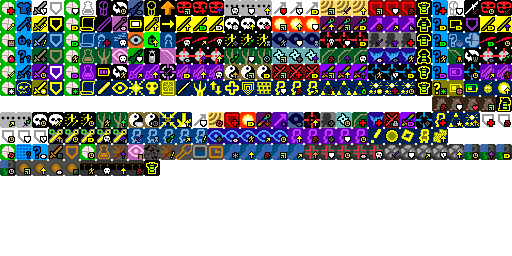
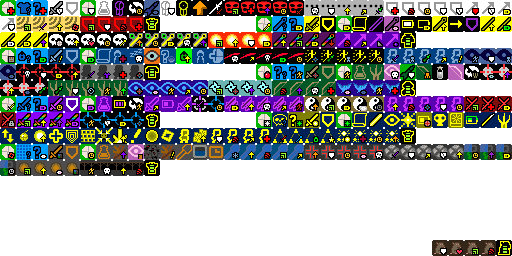
1.0.3:翻译 recommended-changes.md，整理天赋图标位置

diff --git a/core/src/main/java/com/shatteredpixel/shatteredpixeldungeon/actors/hero/Talent.java b/core/src/main/java/com/shatteredpixel/shatteredpixeldungeon/actors/hero/Talent.java
@@ -121,118 +121,118 @@ import java.util.LinkedHashMap;
 public enum Talent {
 
 	//Warrior T1
-	HEARTY_MEAL(0), VETERANS_INTUITION(1), PROVOKED_ANGER(2), IRON_WILL(3), TESTED_REVIVE(27),
+	HEARTY_MEAL(0), VETERANS_INTUITION(1), TESTED_REVIVE(2), PROVOKED_ANGER(3), IRON_WILL(4),
 	//Warrior T2
-	IRON_STOMACH(4), LIQUID_WILLPOWER(5), RUNIC_TRANSFERENCE(6), LETHAL_MOMENTUM(7), IMPROVISED_PROJECTILES(8),FIGHTING_BACK(28),
+	IRON_STOMACH(5), LIQUID_WILLPOWER(6), RUNIC_TRANSFERENCE(7), LETHAL_MOMENTUM(8), IMPROVISED_PROJECTILES(9),FIGHTING_BACK(10),
 	//Warrior T3
-	INTACT_SEAL(9, 3), STRONGMAN(10, 3), OVERWHELMING(29, 3),
+	INTACT_SEAL(11, 3), STRONGMAN(12, 3), OVERWHELMING(13, 3),
 	//Berserker T3
-	ENDLESS_RAGE(11, 3), DEATHLESS_FURY(12, 3), ENRAGED_CATALYST(13, 3), BEAR_GRUDGES(30, 3), BLADE_OF_ANGER(31, 3),
+	ENDLESS_RAGE(14, 3), DEATHLESS_FURY(15, 3), ENRAGED_CATALYST(16, 3), BEAR_GRUDGES(17, 3), BLADE_OF_ANGER(18, 3),
 	//Gladiator T3
-	CLEAVE(14, 3), LETHAL_DEFENSE(15, 3), ENHANCED_COMBO(16, 3), REPEATED_SKILL(224, 3), FAR_STANDOFF(225, 3),
+	CLEAVE(19, 3), LETHAL_DEFENSE(20, 3), ENHANCED_COMBO(21, 3), REPEATED_SKILL(22, 3), FAR_STANDOFF(23, 3),
 	//Guard T3
-	KEEP_GUARDING(254, 3), GUARD_THE_PASS(255, 3), SHIELDING(256, 3), EMERGENCY_SHIELD(257, 3), ARMOR_SEIZING(258, 3),
+	KEEP_GUARDING(24, 3), GUARD_THE_PASS(25, 3), SHIELDING(26, 3), EMERGENCY_SHIELD(27, 3), ARMOR_SEIZING(28, 3),
 	//Heroic Leap T4
-	BODY_SLAM(17, 4), IMPACT_WAVE(18, 4), DOUBLE_JUMP(19, 4),SHIELDING_JUMP(236, 4),
+	BODY_SLAM(29, 4), IMPACT_WAVE(30, 4), DOUBLE_JUMP(31, 4), SHIELDING_JUMP(32, 4),
 	//Shockwave T4
-	EXPANDING_WAVE(20, 4), STRIKING_WAVE(21, 4), SHOCK_FORCE(22, 4),EARTHQUAKE(237, 4),
+	EXPANDING_WAVE(33, 4), STRIKING_WAVE(34, 4), SHOCK_FORCE(35, 4), EARTHQUAKE(36, 4),
 	//Endure T4
-	SUSTAINED_RETRIBUTION(23, 4), SHRUG_IT_OFF(24, 4), EVEN_THE_ODDS(25, 4), BLOOD_FOR_BLOOD(238, 4),
+	SUSTAINED_RETRIBUTION(37, 4), SHRUG_IT_OFF(38, 4), EVEN_THE_ODDS(39, 4), BLOOD_FOR_BLOOD(40, 4),
 
 	//Mage T1
-	EMPOWERING_MEAL(32), SCHOLARS_INTUITION(33), LINGERING_MAGIC(34), BACKUP_BARRIER(35), TESTED_HYPOTHESIS(59),
+	EMPOWERING_MEAL(48), SCHOLARS_INTUITION(49), TESTED_HYPOTHESIS(50), LINGERING_MAGIC(51), BACKUP_BARRIER(52),
 	//Mage T2
-	ENERGIZING_MEAL(36), INSCRIBED_POWER(37), WAND_PRESERVATION(38), ARCANE_VISION(39), SHIELD_BATTERY(40), RESERVED_ENERGY(60),
+	ENERGIZING_MEAL(53), INSCRIBED_POWER(54), WAND_PRESERVATION(55), ARCANE_VISION(56), SHIELD_BATTERY(57), RESERVED_ENERGY(58),
 	//Mage T3
-	DESPERATE_POWER(41, 3), ALLY_WARP(42, 3), ARCANE_ARMOR(61, 3),
+	DESPERATE_POWER(59, 3), ALLY_WARP(60, 3), ARCANE_ARMOR(61, 3),
 	//Battlemage T3
-	EMPOWERED_STRIKE(43, 3), MYSTICAL_CHARGE(44, 3), EXCESS_CHARGE(45, 3), BATTLE_CHARGE(62, 3), VARIED_MAGIC(63, 3),
+	EMPOWERED_STRIKE(62, 3), MYSTICAL_CHARGE(63, 3), EXCESS_CHARGE(64, 3), BATTLE_CHARGE(65, 3), VARIED_MAGIC(66, 3),
 	//Warlock T3
-	SOUL_EATER(46, 3), SOUL_SIPHON(47, 3), NECROMANCERS_MINIONS(48, 3), CLEAR_YOUR_SOUL(226, 3),MANA_EATING(227, 3),
+	SOUL_EATER(67, 3), SOUL_SIPHON(68, 3), NECROMANCERS_MINIONS(69, 3), CLEAR_YOUR_SOUL(70, 3), MANA_EATING(71, 3),
     //Switcher T3
-    SHARED_ARCANA(259, 3), SWITCH_MASTER(260, 3), RELAY_RECHARGING(261, 3), ENERGY_RECYCLING(262, 3),MYSTICAL_SWITCH(263, 3),
+    SHARED_ARCANA(72, 3), SWITCH_MASTER(73, 3), RELAY_RECHARGING(74, 3), ENERGY_RECYCLING(75, 3), MYSTICAL_SWITCH(76, 3),
 	//Elemental Blast T4
-	BLAST_RADIUS(49, 4), ELEMENTAL_POWER(50, 4), REACTIVE_BARRIER(51, 4), RECHARGING_BLAST(239, 4),
+	BLAST_RADIUS(77, 4), ELEMENTAL_POWER(78, 4), REACTIVE_BARRIER(79, 4), RECHARGING_BLAST(80, 4),
 	//Wild Magic T4
-	WILD_POWER(52, 4), FIRE_EVERYTHING(53, 4), CONSERVED_MAGIC(54, 4), WILD_PUNISHMENT(240, 4),
+	WILD_POWER(81, 4), FIRE_EVERYTHING(82, 4), CONSERVED_MAGIC(83, 4), WILD_PUNISHMENT(84, 4),
 	//Warp Beacon T4
-	TELEFRAG(55, 4), REMOTE_BEACON(56, 4), LONGRANGE_WARP(57, 4), SPACE_COLLECTING(241, 4),
+	TELEFRAG(85, 4), REMOTE_BEACON(86, 4), LONGRANGE_WARP(87, 4), SPACE_COLLECTING(88, 4),
 
 	//Rogue T1
-	CACHED_RATIONS(64), THIEFS_INTUITION(65), SUCKER_PUNCH(66), PROTECTIVE_SHADOWS(67), TESTED_MYST(91),
+	CACHED_RATIONS(96), THIEFS_INTUITION(97), TESTED_MYST(98), SUCKER_PUNCH(99), PROTECTIVE_SHADOWS(100),
 	//Rogue T2
-	MYSTICAL_MEAL(68), INSCRIBED_STEALTH(69), EMERGENCY_CHARGE(70), SILENT_STEPS(71), ROGUES_FORESIGHT(72), ROGUES_INSTINCT(92),
+	MYSTICAL_MEAL(101), INSCRIBED_STEALTH(102), EMERGENCY_CHARGE(103), SILENT_STEPS(104), ROGUES_FORESIGHT(105), ROGUES_INSTINCT(106),
 	//Rogue T3
-	ENHANCED_RINGS(73, 3), LIGHT_CLOAK(74, 3), STEALTH_METABOLISM(93, 3),
+	ENHANCED_RINGS(107, 3), LIGHT_CLOAK(108, 3), STEALTH_METABOLISM(109, 3),
 	//Assassin T3
-	ENHANCED_LETHALITY(75, 3), ASSASSINS_REACH(76, 3), TERRORIST_ATTACK(77, 3), CHARGE_RECYCLING(94, 3), EXTREMIST(95, 3),
+	ENHANCED_LETHALITY(110, 3), ASSASSINS_REACH(111, 3), TERRORIST_ATTACK(112, 3), CHARGE_RECYCLING(113, 3), EXTREMIST(114, 3),
 	//Freerunner T3
-	EVASIVE_ARMOR(78, 3), PROJECTILE_MOMENTUM(79, 3), SPEEDY_STEALTH(80, 3), ARCANE_STEP(228, 3), STRETCHING(229, 3),
+	EVASIVE_ARMOR(115, 3), PROJECTILE_MOMENTUM(116, 3), SPEEDY_STEALTH(117, 3), ARCANE_STEP(118, 3), STRETCHING(119, 3),
 	//Ninja T3
-	BLADE_OF_UNREAL(264, 3), HIDDEN_IN_THE_CITY(265, 3), FLYING_LOCUST_STONE(266, 3), STEALTH_LEAP(267, 3), WEAKENING_SNEAK(268, 3),
+	BLADE_OF_UNREAL(120, 3), HIDDEN_IN_THE_CITY(121, 3), FLYING_LOCUST_STONE(122, 3), STEALTH_LEAP(123, 3), WEAKENING_SNEAK(124, 3),
 	//Smoke Bomb T4
-	HASTY_RETREAT(81, 4), BODY_REPLACEMENT(82, 4), SHADOW_STEP(83, 4), STATIC_SMOKE(242, 4),
+	HASTY_RETREAT(125, 4), BODY_REPLACEMENT(126, 4), SHADOW_STEP(127, 4), STATIC_SMOKE(128, 4),
 	//Death Mark T4
-	FEAR_THE_REAPER(84, 4), DEATHLY_DURABILITY(85, 4), DOUBLE_MARK(86, 4),STRONG_MARK(243, 4),
+	FEAR_THE_REAPER(129, 4), DEATHLY_DURABILITY(130, 4), DOUBLE_MARK(131, 4), STRONG_MARK(132, 4),
 	//Shadow Clone T4
-	SHADOW_BLADE(87, 4), CLONED_ARMOR(88, 4), PERFECT_COPY(89, 4),PRECISE_SHADOW(244, 4),
+	SHADOW_BLADE(133, 4), CLONED_ARMOR(134, 4), PERFECT_COPY(135, 4), PRECISE_SHADOW(136, 4),
 
 	//Huntress T1
-	NATURES_BOUNTY(96), SURVIVALISTS_INTUITION(97), FOLLOWUP_STRIKE(98), NATURES_AID(99), TESTED_SWIFTNESS(123),
+	NATURES_BOUNTY(144), SURVIVALISTS_INTUITION(145), TESTED_SWIFTNESS(146), FOLLOWUP_STRIKE(147), NATURES_AID(148),
 	//Huntress T2
-	INVIGORATING_MEAL(100), LIQUID_NATURE(101), REJUVENATING_STEPS(102), HEIGHTENED_SENSES(103), DURABLE_PROJECTILES(104), IVY_BIND(124),
+	INVIGORATING_MEAL(149), LIQUID_NATURE(150), REJUVENATING_STEPS(151), HEIGHTENED_SENSES(152), DURABLE_PROJECTILES(153), IVY_BIND(154),
 	//Huntress T3
-	L_M_MASTER(105, 3), SEER_SHOT(106, 3), ORGANIC_FERTILIZER(125, 3),
+	L_M_MASTER(155, 3), SEER_SHOT(156, 3), ORGANIC_FERTILIZER(157, 3),
 	//Sniper T3
-	FARSIGHT(107, 3), SHARED_ENCHANTMENT(108, 3), SHARED_UPGRADES(109, 3), SUPRESSING_MARK(126, 3), RESONANCE_FETCH(127, 3),
+	FARSIGHT(158, 3), SHARED_ENCHANTMENT(159, 3), SHARED_UPGRADES(160, 3), SUPRESSING_MARK(161, 3), RESONANCE_FETCH(162, 3),
 	//Warden T3
-	DURABLE_TIPS(110, 3), BARKSKIN(111, 3), DEW_COLLECTING(112, 3), JUNGLE_GUERRILLA(230, 3), GRASSMAN(231, 3),
+	DURABLE_TIPS(163, 3), BARKSKIN(164, 3), DEW_COLLECTING(165, 3), JUNGLE_GUERRILLA(166, 3), GRASSMAN(167, 3),
 	//Scout T3
-	STRONG_MARK_SC(269, 3), TRACKING_ARROW(270, 3), SWIFT_COURIER(271, 3), EXPEL_ENEMIES(272, 3), PIONEERING_SPIRIT(273, 3),
+	STRONG_MARK_SC(168, 3), TRACKING_ARROW(169, 3), SWIFT_COURIER(170, 3), EXPEL_ENEMIES(171, 3), PIONEERING_SPIRIT(172, 3),
 	//Spectral Blades T4
-	FAN_OF_BLADES(113, 4), PROJECTING_BLADES(114, 4), SPIRIT_BLADES(115, 4),INSTANT_BLADES(245, 4),
+	FAN_OF_BLADES(173, 4), PROJECTING_BLADES(174, 4), SPIRIT_BLADES(175, 4), INSTANT_BLADES(176, 4),
 	//Natures Power T4
-	GROWING_POWER(116, 4), NATURES_WRATH(117, 4), WILD_MOMENTUM(118, 4),REGROWTH(246, 4),
+	GROWING_POWER(177, 4), NATURES_WRATH(178, 4), WILD_MOMENTUM(179, 4), REGROWTH(180, 4),
 	//Spirit Hawk T4
-	EAGLE_EYE(119, 4), GO_FOR_THE_EYES(120, 4), SWIFT_SPIRIT(121, 4),STRONG_HAWK(247, 4),
+	EAGLE_EYE(181, 4), GO_FOR_THE_EYES(182, 4), SWIFT_SPIRIT(183, 4), STRONG_HAWK(184, 4),
 
 	//Duelist T1
-	STRENGTHENING_MEAL(128), ADVENTURERS_INTUITION(129), PATIENT_STRIKE(130), AGGRESSIVE_BARRIER(131), TESTED_CHARGE(155),
+	STRENGTHENING_MEAL(192), ADVENTURERS_INTUITION(193), TESTED_CHARGE(194), PATIENT_STRIKE(195), AGGRESSIVE_BARRIER(196),
 	//Duelist T2
-	FOCUSED_MEAL(132), LIQUID_AGILITY(133), WEAPON_RECHARGING(134), LETHAL_HASTE(135), SWIFT_EQUIP(136), POWER_ACCUMULATION(156),
+	FOCUSED_MEAL(197), LIQUID_AGILITY(198), WEAPON_RECHARGING(199), LETHAL_HASTE(200), SWIFT_EQUIP(201), POWER_ACCUMULATION(202),
 	//Duelist T3
-	PRECISE_ASSAULT(137, 3), DEADLY_FOLLOWUP(138, 3), AGILE_COUNTATK(157, 3),
+	PRECISE_ASSAULT(203, 3), DEADLY_FOLLOWUP(204, 3), AGILE_COUNTATK(205, 3),
 	//Champion T3
-	VARIED_CHARGE(139, 3), TWIN_UPGRADES(140, 3), COMBINED_LETHALITY(141, 3), SKILLED_DUAL(158, 3),MARCH_FORWARD(159 ,3),
+	VARIED_CHARGE(206, 3), TWIN_UPGRADES(207, 3), COMBINED_LETHALITY(208, 3), SKILLED_DUAL(209, 3), MARCH_FORWARD(210, 3),
 	//Monk T3
-	UNENCUMBERED_SPIRIT(142, 3), MONASTIC_VIGOR(143, 3), COMBINED_ENERGY(144, 3), YANG_SEEING(232, 3), YIN_GAIT(233, 3),
+	UNENCUMBERED_SPIRIT(211, 3), MONASTIC_VIGOR(212, 3), COMBINED_ENERGY(213, 3), YANG_SEEING(214, 3), YIN_GAIT(215, 3),
 	//Phantom T4
-	FLEXIBLE_FOOTWORK(274, 3), ENRAGED_SHADOW(275, 3), MULTIPLE_DODGE(276, 3), EIDOLON(277, 3), DIFFUSED_IMAGE(278, 3),
+	FLEXIBLE_FOOTWORK(216, 3), ENRAGED_SHADOW(217, 3), MULTIPLE_DODGE(218, 3), EIDOLON(219, 3), DIFFUSED_IMAGE(220, 3),
 	//Challenge T4
-	CLOSE_THE_GAP(145, 4), INVIGORATING_VICTORY(146, 4), ELIMINATION_MATCH(147, 4),BURN_BRIDGES(248 ,4),
+	CLOSE_THE_GAP(221, 4), INVIGORATING_VICTORY(222, 4), ELIMINATION_MATCH(223, 4), BURN_BRIDGES(224, 4),
 	//Elemental Strike T4
-	ELEMENTAL_REACH(148, 4), STRIKING_FORCE(149, 4), DIRECTED_POWER(150, 4), RECHARGING_STRIKE(249, 4),
+	ELEMENTAL_REACH(225, 4), STRIKING_FORCE(226, 4), DIRECTED_POWER(227, 4), RECHARGING_STRIKE(228, 4),
 	//Feint T4
-	FEIGNED_RETREAT(151, 4), EXPOSE_WEAKNESS(152, 4), COUNTER_ABILITY(153, 4), EVASIVE_AFTERIMAGE(250, 4),
+	FEIGNED_RETREAT(229, 4), EXPOSE_WEAKNESS(230, 4), COUNTER_ABILITY(231, 4), EVASIVE_AFTERIMAGE(232, 4),
 
 	//Cleric T1
-	SATIATED_SPELLS(160), HOLY_INTUITION(161), SEARING_LIGHT(162), SHIELD_OF_LIGHT(163), TESTED_HOLINESS(187),
+	SATIATED_SPELLS(240), HOLY_INTUITION(241), TESTED_HOLINESS(242), SEARING_LIGHT(243), SHIELD_OF_LIGHT(244),
 	//Cleric T2
-	ENLIGHTENING_MEAL(164), RECALL_INSCRIPTION(165), SUNRAY(166), DIVINE_SENSE(167), BLESS(168), ASCETICISM(188),
+	ENLIGHTENING_MEAL(245), RECALL_INSCRIPTION(246), SUNRAY(247), DIVINE_SENSE(248), BLESS(249), ASCETICISM(250),
 	//Cleric T3
-	CLEANSE(169, 3), LIGHT_READING(170, 3), SHARED_CHARGE(189, 3),
+	CLEANSE(251, 3), LIGHT_READING(252, 3), SHARED_CHARGE(253, 3),
 	//Priest T3
-	HOLY_LANCE(171, 3), HALLOWED_GROUND(172, 3), MNEMONIC_PRAYER(173, 3), EXPLOSION(190, 3), ENHANCED_RADIANCE(191, 3),
+	HOLY_LANCE(254, 3), HALLOWED_GROUND(255, 3), MNEMONIC_PRAYER(256, 3), EXPLOSION(257, 3), ENHANCED_RADIANCE(258, 3),
 	//Paladin T3
-	LAY_ON_HANDS(174, 3), AURA_OF_PROTECTION(175, 3), WALL_OF_LIGHT(176, 3), JUSTICE_STRIKE(234, 3), ENHANCED_SMITE(235, 3),
+	LAY_ON_HANDS(259, 3), AURA_OF_PROTECTION(260, 3), WALL_OF_LIGHT(261, 3), JUSTICE_STRIKE(262, 3), ENHANCED_SMITE(263, 3),
 	//Preacher T3
-	PUNISHMENT(279, 3), DRAPE_OF_REDEMPTION(280, 3), HOLY_TRAP(281, 3), HOLY_GHOST(282, 3), ENHANCED_BOOKPAGE(283, 3),
+	PUNISHMENT(264, 3), DRAPE_OF_REDEMPTION(265, 3), HOLY_TRAP(266, 3), HOLY_GHOST(267, 3), ENHANCED_BOOKPAGE(268, 3),
 	//Ascended Form T4
-	DIVINE_INTERVENTION(177, 4), JUDGEMENT(178, 4), FLASH(179, 4), HOLY_REGENERATION(251, 4),
+	DIVINE_INTERVENTION(269, 4), JUDGEMENT(270, 4), FLASH(271, 4), HOLY_REGENERATION(272, 4),
 	//Trinity T4
-	BODY_FORM(180, 4), MIND_FORM(181, 4), SPIRIT_FORM(182, 4), MIMIC_FORM(252, 4),
+	BODY_FORM(273, 4), MIND_FORM(274, 4), SPIRIT_FORM(275, 4), MIMIC_FORM(276, 4),
 	//Power of Many T4
-	BEAMING_RAY(183, 4), LIFE_LINK(184, 4), STASIS(185, 4), HOLY_CHAMPION(253, 4),
+	BEAMING_RAY(277, 4), LIFE_LINK(278, 4), STASIS(279, 4), HOLY_CHAMPION(280, 4),
 
 	//Explorer T1
 	KEEN_MEAL(288), SECRET_FORESIGHT(289), TESTED_AWARENESS(290), HOME_ADVANTAGE(291), SAFE_SURVEY(292),
@@ -245,18 +245,18 @@ public enum Talent {
 	//Trapper T3
 	TRAP_MASTER(307, 3), FRIENDLY_MECHANISM(308, 3), SIMPLE_STRUCTURE(309, 3), SENSITIVE_PEDAL(310, 3), LIQUID_COLLECTING(311, 3),
 	//Rocksy T3
-	METEROIC_IRON(312, 3), ROCK_PROTECTOR(313, 3), MIND_CONTROL(314, 3), DESTRUCTIVE_STRIKE(315, 3) ,METEOR_CRATER(316, 3),
+	METEROIC_IRON(312, 3), ROCK_PROTECTOR(313, 3), MIND_CONTROL(314, 3), DESTRUCTIVE_STRIKE(315, 3), METEOR_CRATER(316, 3),
 	//Optical Camouflage T4
 	LASTING_DISGUISE(317, 4), STRAIN_CAPACITY(318, 4), STANDBY(319, 4), QUICK_BUILD(320, 4),
 	//Sandstorm T4
 	GLOOM_ABOVE(321, 4), SAND_FLOW(322, 4), HEART_OF_STORM(323, 4), DRIFT_SAND(324, 4),
 	//Underpass T4
-	EXPRESS_UNDERWAY(325, 4) ,MONITOR_BENEATH(326, 4), SLY_RABBIT(327, 4), GRENADE_COVER(328 ,4) ,
+	EXPRESS_UNDERWAY(325, 4), MONITOR_BENEATH(326, 4), SLY_RABBIT(327, 4), GRENADE_COVER(328, 4),
 
 	//universal T4
-	HEROIC_ENERGY(26, 4), //See icon() and title() for special logic for this one
+	HEROIC_ENERGY(41, 4), //See icon() and title() for special logic for this one
 	//Ratmogrify T4
-	RATSISTANCE(220, 4), RATLOMACY(221, 4), RATFORCEMENTS(222, 4), ENRATGEMENT(219, 4);
+	RATSISTANCE(507, 4), RATLOMACY(508, 4), RATFORCEMENTS(509, 4), ENRATGEMENT(510, 4);
 
 	public static class ImprovisedProjectileCooldown extends FlavourBuff{
 		public int icon() { return BuffIndicator.TIME; }
@@ -736,29 +736,11 @@ public enum Talent {
 
 	public int icon(){
 		if (this == HEROIC_ENERGY){
-			if (Ratmogrify.useRatroicEnergy){
-				return 223;
-			}
 			HeroClass cls = Dungeon.hero != null ? Dungeon.hero.heroClass : GamesInProgress.selectedClass;
-			switch (cls){
-				case WARRIOR: default:
-					return 26;
-				case MAGE:
-					return 58;
-				case ROGUE:
-					return 90;
-				case HUNTRESS:
-					return 122;
-				case DUELIST:
-					return 154;
-				case CLERIC:
-					return 186;
-				case EXPLORER:
-					return 329;
-			}
-		} else {
-			return icon;
-		}
+            if (Ratmogrify.useRatroicEnergy || cls == null) return 511;
+            return cls.ordinal() * 48 + 41;
+            //currently every hero has 48 talent slot, with 41 of them used
+		} else return icon;
 	}
 
 	public int maxPoints(){

diff --git a/docs/recommended-changes-zh-cn.md b/docs/recommended-changes-zh-cn.md
@@ -1,0 +1,73 @@
+ （最后更新于 2026 年二月）
+
+这份指南包含了一些开发者们在创造他们自己的《像素地牢》改版时可能会想基于破碎的源码进行的技术性更改。
+
+## 应用名、版本名与包名
+
+你应该改动有些在 [build.gradle](/build.gradle) 里定义的变量：
+- `appName` 定义了用户见到的应用名。你必须将它改为你希望的游戏名。
+- `appPackageName` 定义了你应用的内部名称。安卓和 iOS 用此名称区分你的应用与其它的，电脑用它和 appName 确定游戏存档位置。你必须将它从初始值更改掉。你应当使用格式 `com.<开发者名称>.<游戏名>`。
+- `appVersionCode` 定义了你应用的内部版本号。每当发布更新时，你都应当增加其值。阅读下一章以获得有关此变量的更多细节。
+- `appVersionName` 定义了用户见到的版本号。任意更改它，并在每次发布更新时增加其值。
+
+其它变量在设置你自己的《像素地牢》版本时无需更改，它们大多是无需更改的技术性配置。
+
+注意：有些指南会推荐你更改应用的包结构（比如文件夹名称）。这曾是必要的，但如今只是可选的，因为可以使用 `appPackageName` 代替之。
+
+## 应用版本号
+
+《破碎的像素地牢》有一个内部版本号，每次发布时都应当递增。它在根目录 [build.gradle](/build.gradle) 文件里以 `appVersionCode` 定义。
+
+你可能会想将此值设置回 1，但《破碎的像素地牢》有针对老版本的兼容性代码，如果你试图降低版本号，它们可能意外触发。版本号完全仅在内部使用，所以将破碎当前的版本号作为版本号的起始点无伤大雅。
+
+如果你仍然想将此值设为 1，位于 [ShatteredPixelDungeon.java](/core/src/main/java/com/shatteredpixel/shatteredpixeldungeon/ShatteredPixelDungeon.java) 顶部的许多常量是找出游戏出于兼容性目的而参照版本代码的地方的良好起始点。
+
+## 应用图标与标题
+
+你可能会想改变应用图标与标题界面以更好地将你的版本与《破碎的像素地牢》在视觉上区分开。这只是改一改几张图像的活，但是需要改的有很多。
+
+对于标题界面，你可以在[这里](/core/src/main/assets/interfaces/banners.png)找到游戏的标题图片与独立发光层。
+
+对于图标，你可以在此找到各个平台的图标：[安卓（调试）](/android/src/debug/res)、[安卓（发行）](/android/src/main/res)、[电脑](/desktop/src/main/assets/icons)和[iOS](/ios/assets/Assets.xcassets).
+
+## 鸣谢名单与支持按钮
+
+你可能会想将你自己加入鸣谢名单或是改变当前的支持者链接。随意更改它们，相关代码位于 [AboutScene.java](/core/src/main/java/com/shatteredpixel/shatteredpixeldungeon/scenes/AboutScene.java) 和 [SupporterScene.java](/core/src/main/java/com/shatteredpixel/shatteredpixeldungeon/scenes/SupporterScene.java)。如果你希望禁用支持者链接，在 [TitleScene.java](/core/src/main/java/com/shatteredpixel/shatteredpixeldungeon/scenes/TitleScene.java) 中注释掉 `add(btnSupport);`即可。
+
+游戏还带有一个在玩家第一次打败黏咕时出现的一次性唠叨窗口。如果你希望编辑此窗口，代码位于 [WndSupportPrompt.java](/core/src/main/java/com/shatteredpixel/shatteredpixeldungeon/windows/WndSupportPrompt.java)。如果你希望完全禁用它，触发逻辑位于 [SkeletonKey.java](/core/src/main/java/com/shatteredpixel/shatteredpixeldungeon/items/keys/SkeletonKey.java)。
+
+注意根据 GPLv3 许可证，任何你对鸣谢界面所作的更改必须避免移除任何已有鸣谢，尽管你仍然可以任意位移它们。此外，虽然并非强制要求，我希望你提我一下并留一个指向我的 Patreon 的链接，你也仍然可以自由添加你的。
+
+**注意如果你希望在 Google Play 上分发，Google 有下架提及 Patreon 的应用程序的历史，因为他们希望通过 Google Play 应用程序获得的所有收入都经过他们。所以如果你想在 Google Play 上发布的话，强烈推荐你禁用支持按钮或是替换其中的文字/链接。**
+
+## 更新通知
+
+《破碎的像素地牢》包含一个基于 Github 的更新通知，除非经更改，那么它大概是没用的。
+
+如果想禁用此通知的话，将 [desktop](/desktop/build.gradle) 和 [android](/android/build.gradle) 模块中的 build.gradle 里的发行配置由 `:services:updates:githubUpdates` 更改为 `:services:updates:debugUpdates` 即可。调试更新模块在默认情况下什么都不做，所以它们会在发行版中运行良好。
+
+如果更改通知已使其指向你自己的 Github 发行地址的话，前往 [GitHubUpdates.java](/services/updates/githubUpdates/src/main/java/com/shatteredpixel/shatteredpixeldungeon/services/updates/GitHubUpdates.java) 并更改这一行： `httpGet.setUrl("https://api.github.com/repos/00-Evan/shattered-pixel-dungeon/releases");` 以对上你自己的用户名与仓库名。Github 更新程序在您的发行版中查找标题、正文后三个破折号和短语： \` internal version number: # \` 。
+
+更强的开发者可以改变发行版格式，或是制作全新的更新通知服务。
+
+## 新闻提要
+
+《破碎的像素地牢》包含一个从 [ShatteredPixel.com](http://ShatteredPixel.com) 拉取博客文章的新闻提要。那些文章对你可能不甚有用，你大概会希望删掉它们。
+
+如果想完全禁用新闻的话，注释掉 [TitleScene.java](/core/src/main/java/com/shatteredpixel/shatteredpixeldungeon/scenes/TitleScene.java) 中的 `add(btnNews);` 行即可。
+
+你也可以更改位于 [ShatteredNews.java](/services/news/shatteredNews/src/main/java/com/shatteredpixel/shatteredpixeldungeon/services/news/ShatteredNews.java) 里的链接以将新闻检查器指向另一处摘要。注意当前的逻辑需要原子摘要并且针对 ShatteredPixel.com 做了点定制，但逻辑可以更改以迎合其它 xml 提要种类。
+
+更强的开发者也可以制作他们自己的新闻检查器逻辑并使用。
+
+## 翻译
+
+《破碎的像素地牢》支持很多种通过[社区翻译项目](https://www.transifex.com/shattered-pixel/shattered-pixel-dungeon/)翻译的语言。
+
+如果你希望向游戏内添加新文本，维护这些翻译可能会很困难甚至不可能，所以你大概会想删掉它们：
+- 在 [Languages.java](/core/src/main/java/com/shatteredpixel/shatteredpixeldungeon/messages/Languages.java) 中删除除了 ENGLISH 以外的所有枚举常量。
+- 在 [文本资源文件夹中](/core/src/main/assets/messages) 移除所有带下划线后跟语言代码的 .properties 文件（比如移除 actors_ru.properties，而非 actors.properties）。
+- 最后注释掉位于 [WndSettings.java](/core/src/main/java/com/shatteredpixel/shatteredpixeldungeon/windows/WndSettings.java) 内的 `add( langs );` 和 `add( langsTab );` 行以删除语言选择器。
+- 或者，如果你精通多门语言或是有翻译人员并希望保留某些语言，不要注释掉语言选择器并且仅移除你不使用的语言的枚举/资源包。
+
+如果你希望使用使用其它语言而非英语作为基本语言，移除不带语言代码的 .properties 文件并删掉你要使用的语言文件名中的下划线和语言代码即可。游戏会在内部将此语言视为英语，所以你大概需要查找 ENGLISH 常量的使用位置并在这些地方这些位置做出相应调整，可能还要重命名。
